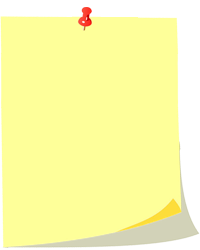
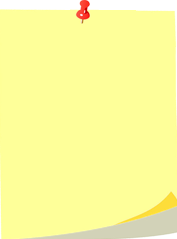
finished styling the note :)

Changed region(s): [[0.0, 0.0, 1.0, 1.0]]

diff --git a/main.js b/main.js
@@ -2,12 +2,14 @@ function showNote(note) {
     const notesBoard = document.getElementById("notes-board");
     notesBoard.innerHTML += `
     <div class="note" id="${note.nid}">
+        <i class="fa fa-minus offset-9" onclick="deleteNote(${note.nid})" display aria-hidden="true"></i>
         <div class="note-body">
-        ${note.body}
+                ${note.body}
         </div>
         <div class="row note-footer">
-            ${note.date} - ${note.time}
-            <i class="fa fa-minus offset-4" onclick="deleteNote(${note.nid})" aria-hidden="true"></i>
+            ${note.date}
+            <br>
+            ${note.time}    
         </div>
     </div>
     `;
@@ -25,8 +27,7 @@ function validateDate(date) {
         month: parseInt(dateArray[1]),
         day: parseInt(dateArray[2])
     }
-    console.log(dateObject);
-    console.log(currDateObject);
+
     if (dateObject.year < currDateObject.year) {
         alert("The date of the note can't be before the current year");
         return false;
@@ -120,6 +121,8 @@ function onLoad() {
     }
 }
 function deleteNote(noteDiv) {
+    //the noteDiv is the parent element of the whole note, we take it's id and remove it from local storage and remove the element from the
+    // body of the page. 
     deleteFromLocalStorage(noteDiv.id);
     noteDiv.remove();
 }

diff --git a/style.css b/style.css
@@ -32,35 +32,46 @@ body {
     justify-content: center;
 }
 
-.note-body {
-    width: 250px;
-    height: 250px;
-    border: 2px solid black;
-    overflow: auto;
-    display: inline-block !important;
-}
-
 .note {
+    width: 300px;
+    height: 400px;
     display: grid;
     grid-template-columns: 1fr;
     margin: 30px;
-    justify-content:center;
+    justify-content: center;
+    background: url("assets/images/notebg.png");
+    background-size: 300px 400px;
+}
+
+div:hover>i {
+    opacity: 1.0;
+}
+
+.note-body {
+    width: 270px;
+    height: 280px;
+    overflow: auto;
+    display: inline-block !important;
+    margin-left: 4px;
+    margin-bottom: 0px;
 }
 
 .note-footer {
     width: 250px;
-    height: 30px;
-    margin-left: 0px;
-    border: 2px solid black;
+    height: 40px;
+    margin-left: 15px;
+    margin-bottom: 30px;
+    margin-top: 0px;
+    font-weight: bolder;
+    font-size: 20px;
 }
 
 .fa-minus {
+    opacity: 0.0;
     color: red;
-    margin-top: 5px;
+    margin-top: 10px;
+    height: 20px;
+    font-size: 30px;
+    transition: all 500ms ease-in-out;
 }
 
-.fa-minus:hover {
-    margin-top: 0;
-    font-size: 30px;
-    color: red;
-}
